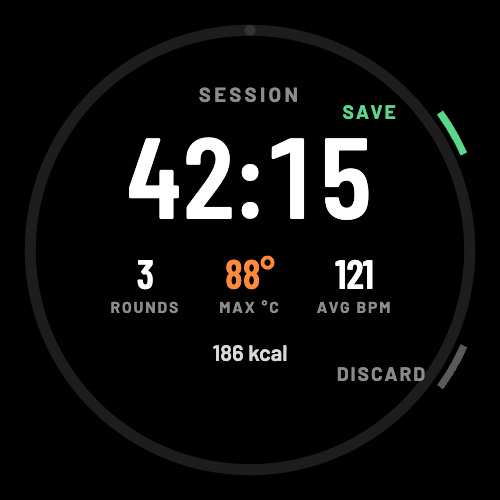
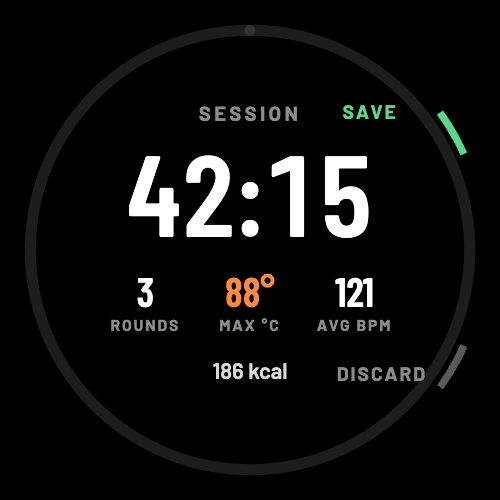
Update session summary screen and bust image cache
Replaces 4-screen.png with the latest handoff export (summary layout
sits lower on the screen).

The handoff reuses the old image filenames, so browsers kept serving
the previous watch mockups from cache. Image URLs now carry a
?v=<build time> query so each Pages build forces fresh copies.

diff --git a/index.html b/index.html
@@ -15,7 +15,7 @@ layout: default
     </div>
     <div class="hero-visual">
       <div class="watch-frame">
-        <img src="{{ '/assets/images/1-screen.png' | relative_url }}" alt="Sauna Gray in-sauna screen on a Garmin watch" width="420" height="420">
+        <img src="{{ '/assets/images/1-screen.png' | relative_url }}?v={{ site.time | date: '%s' }}" alt="Sauna Gray in-sauna screen on a Garmin watch" width="420" height="420">
       </div>
     </div>
   </div>
@@ -27,19 +27,19 @@ layout: default
     <div class="steps">
       <div class="card reveal">
         <span class="dot dot--heat"></span>
-        <img class="round-shot" src="{{ '/assets/images/1-screen.png' | relative_url }}" alt="In-sauna screen with timer, temperature and heart rate" width="240" height="240" loading="lazy">
+        <img class="round-shot" src="{{ '/assets/images/1-screen.png' | relative_url }}?v={{ site.time | date: '%s' }}" alt="In-sauna screen with timer, temperature and heart rate" width="240" height="240" loading="lazy">
         <h3>Sauna</h3>
         <p>Live timer, temperature and heart rate with zones. The ring fills to 15&nbsp;min.</p>
       </div>
       <div class="card reveal">
         <span class="dot dot--cool"></span>
-        <img class="round-shot" src="{{ '/assets/images/2-screen.png' | relative_url }}" alt="Cooling screen with break timer and temperature drop" width="240" height="240" loading="lazy">
+        <img class="round-shot" src="{{ '/assets/images/2-screen.png' | relative_url }}?v={{ site.time | date: '%s' }}" alt="Cooling screen with break timer and temperature drop" width="240" height="240" loading="lazy">
         <h3>Cool</h3>
         <p>Cooling break timer and temperature drop. Buzzes when you're ready for the next round.</p>
       </div>
       <div class="card reveal">
         <span class="dot dot--go"></span>
-        <img class="round-shot" src="{{ '/assets/images/4-screen.png' | relative_url }}" alt="Session summary screen with rounds, max temperature, average heart rate and calories" width="240" height="240" loading="lazy">
+        <img class="round-shot" src="{{ '/assets/images/4-screen.png' | relative_url }}?v={{ site.time | date: '%s' }}" alt="Session summary screen with rounds, max temperature, average heart rate and calories" width="240" height="240" loading="lazy">
         <h3>Save</h3>
         <p>Summary of rounds, max temp, average HR and calories. Saves to Garmin Connect and Strava.</p>
       </div>
@@ -50,7 +50,7 @@ layout: default
 <section class="section" style="background:var(--surface);border-top:1px solid var(--line);border-bottom:1px solid var(--line)">
   <div class="wrap safety reveal">
     <div class="safety-visual">
-      <img src="{{ '/assets/images/3-screen.png' | relative_url }}" alt="Safety alert screen shown during a long or hot session" width="260" height="260" loading="lazy">
+      <img src="{{ '/assets/images/3-screen.png' | relative_url }}?v={{ site.time | date: '%s' }}" alt="Safety alert screen shown during a long or hot session" width="260" height="260" loading="lazy">
     </div>
     <div>
       <h2>Safety first</h2>
@@ -79,7 +79,7 @@ layout: default
         <p>Look back at duration, max/min temperature and heart rate for your last 50 sessions.</p>
       </div>
       <div class="feature reveal">
-        <img class="round-shot--sm" src="{{ '/assets/images/5-screen.png' | relative_url }}" alt="Personal record screen" width="64" height="64" loading="lazy">
+        <img class="round-shot--sm" src="{{ '/assets/images/5-screen.png' | relative_url }}?v={{ site.time | date: '%s' }}" alt="Personal record screen" width="64" height="64" loading="lazy">
         <h3>Personal records</h3>
         <p>Longest session, most rounds and more, tracked automatically.</p>
       </div>
@@ -128,7 +128,7 @@ layout: default
 
 <section class="section final-cta reveal">
   <div class="wrap">
-    <img src="{{ '/assets/images/cover-image.png' | relative_url }}" alt="Sauna Gray icon" width="120" height="120" loading="lazy">
+    <img src="{{ '/assets/images/cover-image.png' | relative_url }}?v={{ site.time | date: '%s' }}" alt="Sauna Gray icon" width="120" height="120" loading="lazy">
     <h2>Start your next session</h2>
     <a class="btn" href="https://apps.garmin.com/apps/b63ec14b-bc28-4e92-bfb3-be653c595066" target="_blank" rel="noopener">Get it on Connect IQ</a>
   </div>
